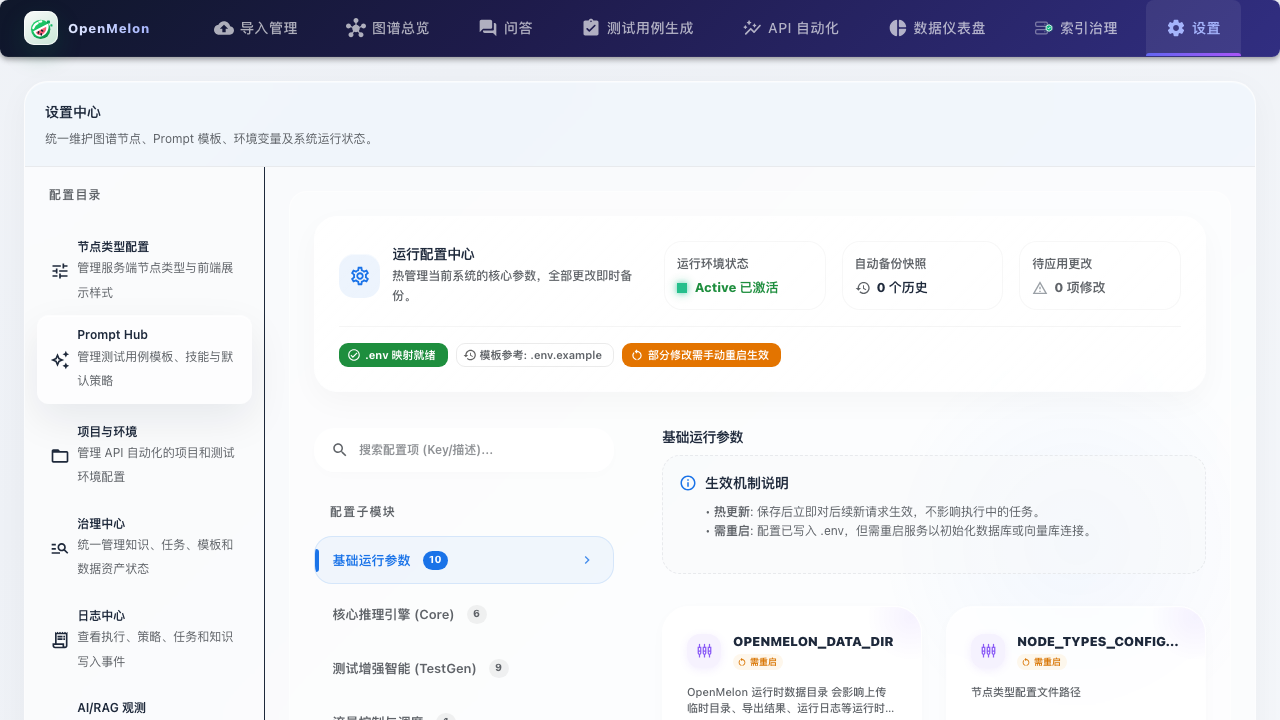
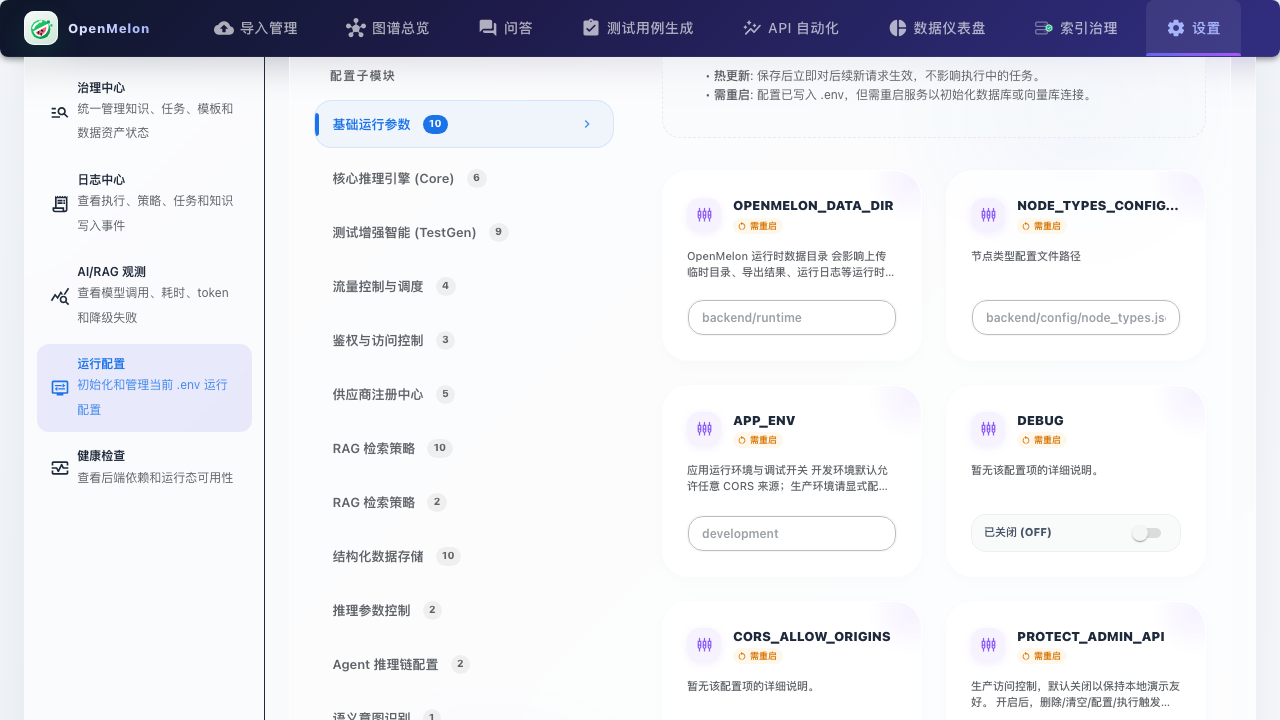
docs：补充运行配置和健康检查截图

diff --git a/MANUAL.md b/MANUAL.md
@@ -80,7 +80,7 @@ docker compose logs -f app
 | API 自动化 | 维护项目-模块-接口资产台账，将接口资产交给 API Agent 生成冒烟用例并执行回写 | 导入/同步 OpenAPI、预览差异、维护接口资产、按模块或接口生成 Agent 冒烟 DSL、保存/载入项目测试任务、执行、确认沉淀 | 测试、研发、接口负责人 |
 | 数据仪表盘 | 汇聚全链路的覆盖率分析与自动化测试健康度大屏，左侧分区导航切换不同视图 | 查看覆盖率总览、API 执行概览、UI 自动化总览（规划中） | 测试负责人、项目负责人 |
 | 索引治理 | 统一治理业务源、Neo4j 图谱索引和 Qdrant 向量库内容 | 一致性扫描、明细查看、状态同步、孤儿清理、Qdrant 异步回填 | 管理员、维护者 |
-| 设置 | 统一配置中心，左侧分区导航切换多个子页 | 节点类型配置、运行配置、Prompt Hub、项目与环境、治理中心、AI/RAG 观测、日志中心 | 管理员、维护者 |
+| 设置 | 统一配置中心，左侧分区导航切换多个子页 | 节点类型配置、运行配置、健康检查、Prompt Hub、项目与环境、治理中心、AI/RAG 观测、日志中心 | 管理员、维护者 |
 
 建议的理解顺序（完美贴合系统的数据流动漏斗）：
 
@@ -138,6 +138,10 @@ docker compose logs -f app
 #### 设置 - 运行配置
 
 ![运行配置](docs/screenshots/runtime-config-page.png)
+
+#### 设置 - 健康检查
+
+![健康检查](docs/screenshots/system-health-page.png)
 
 #### 设置 - Prompt Hub
 

diff --git a/README.md b/README.md
@@ -154,6 +154,7 @@ ADMIN_JWT_SECRET=replace-with-long-random-secret
 - **设置 - 节点类型配置**：![节点类型配置](docs/screenshots/node-page.png)
 - **设置 - 项目与环境**：![项目与环境](docs/screenshots/project-env-page.png)
 - **设置 - 运行配置**：![运行配置](docs/screenshots/runtime-config-page.png)
+- **设置 - 健康检查**：![健康检查](docs/screenshots/system-health-page.png)
 - **设置 - Prompt Hub**：![Prompt Hub 页面](docs/screenshots/prompt-hub-page.png)
 - **设置 - 治理中心**：![治理中心](docs/screenshots/governance-center-page.png)
 - **设置 - 日志中心**：![日志中心](docs/screenshots/log-center-page.png)